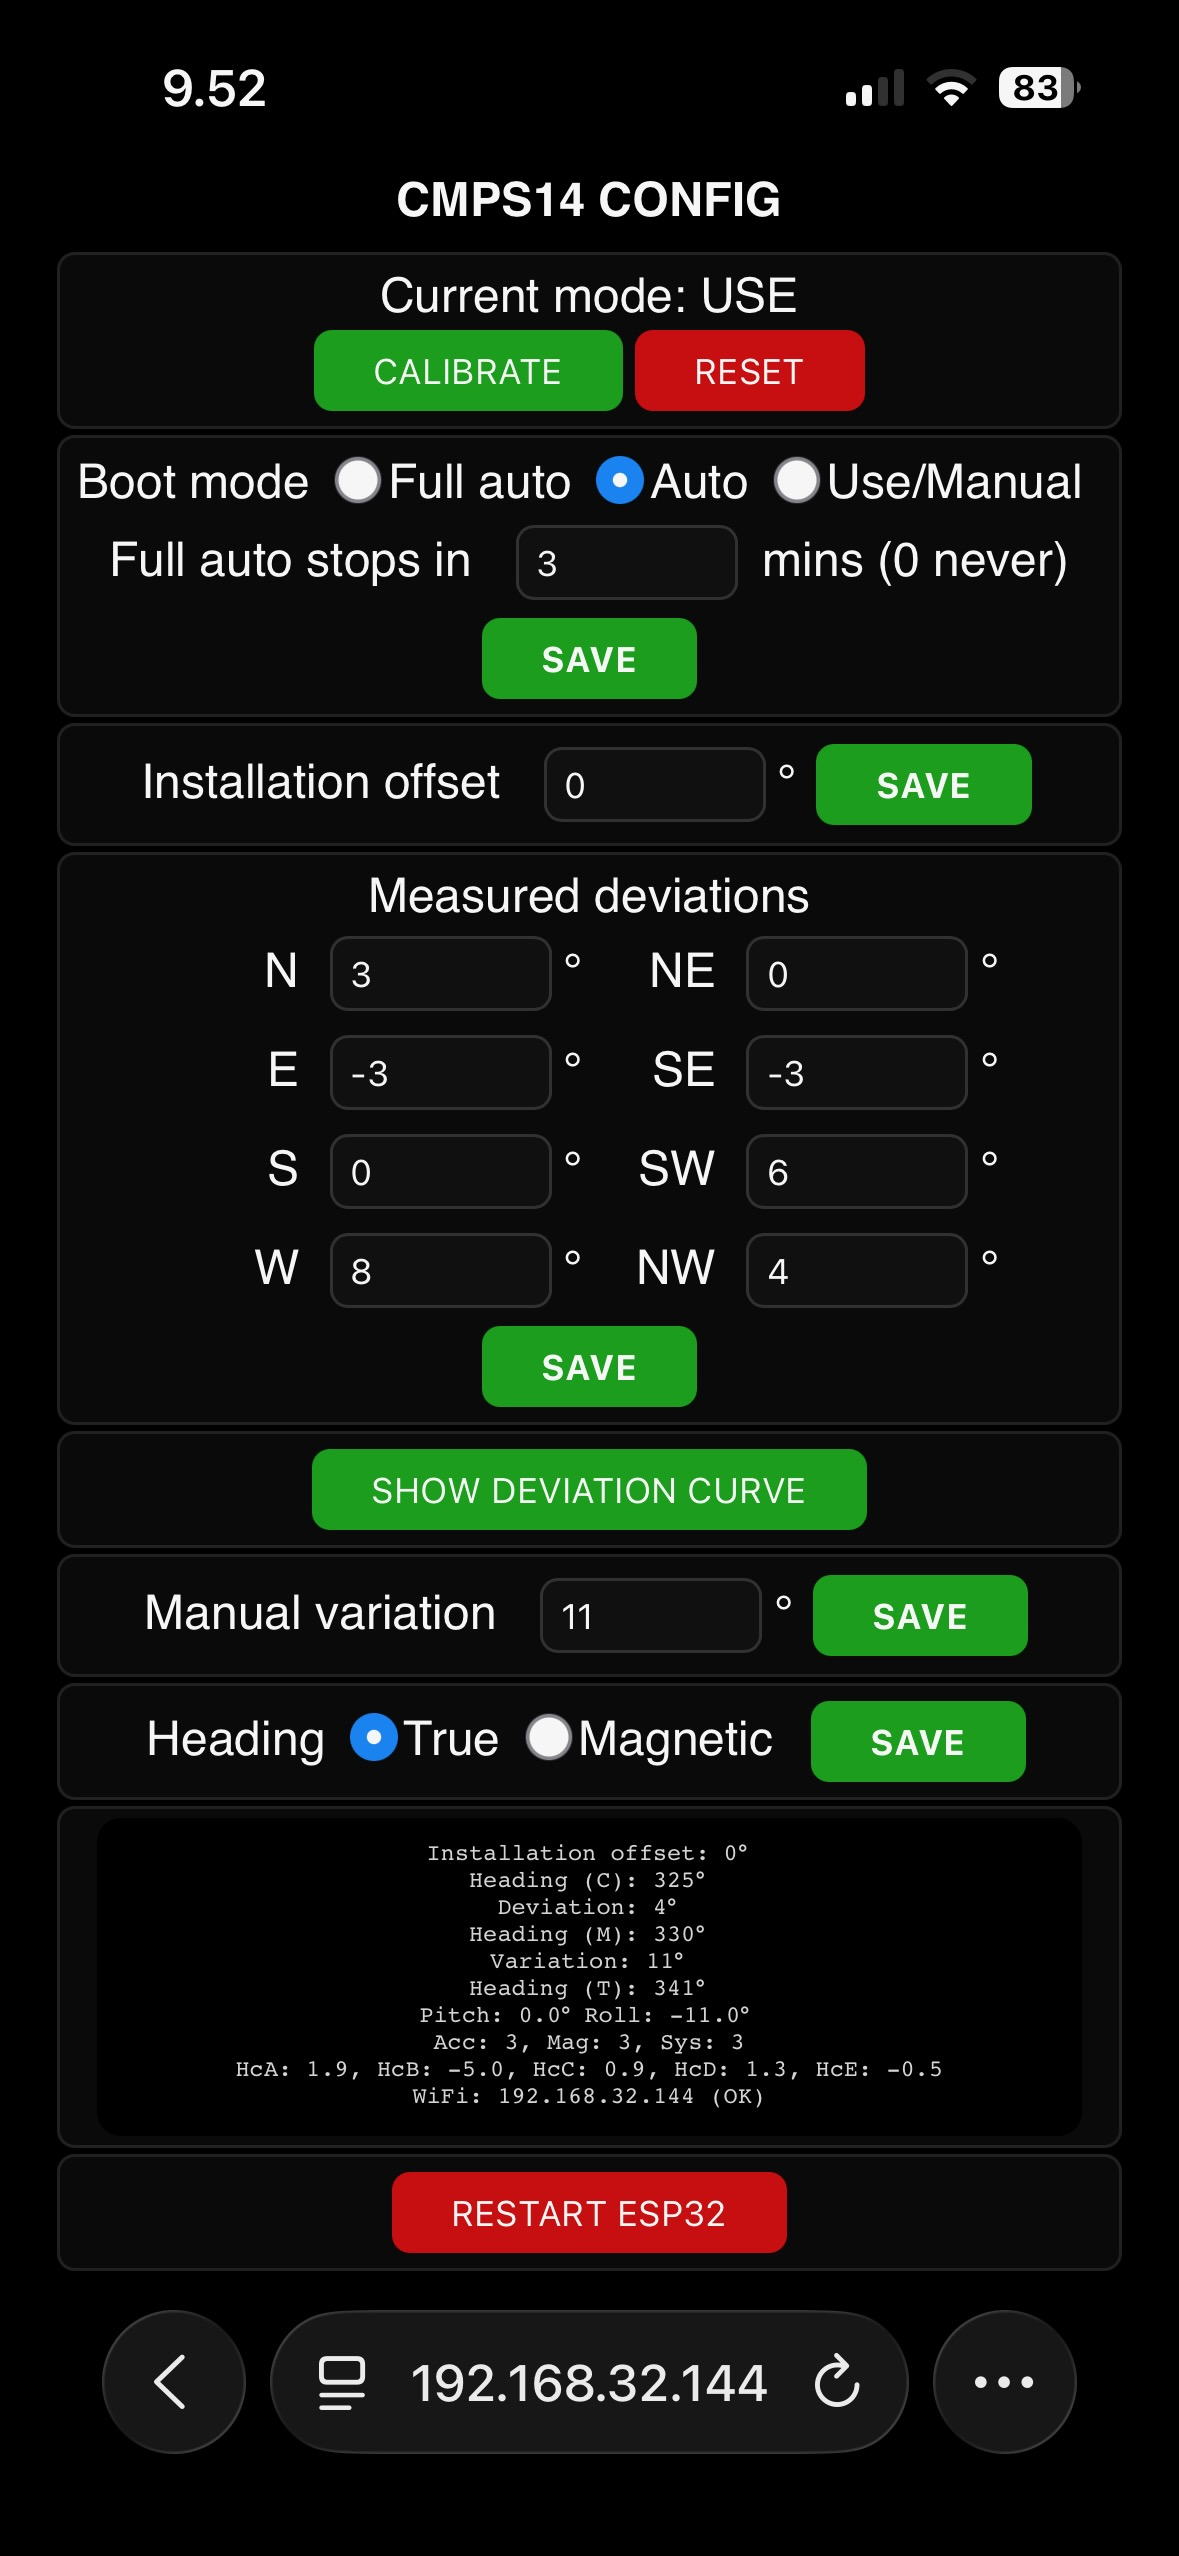
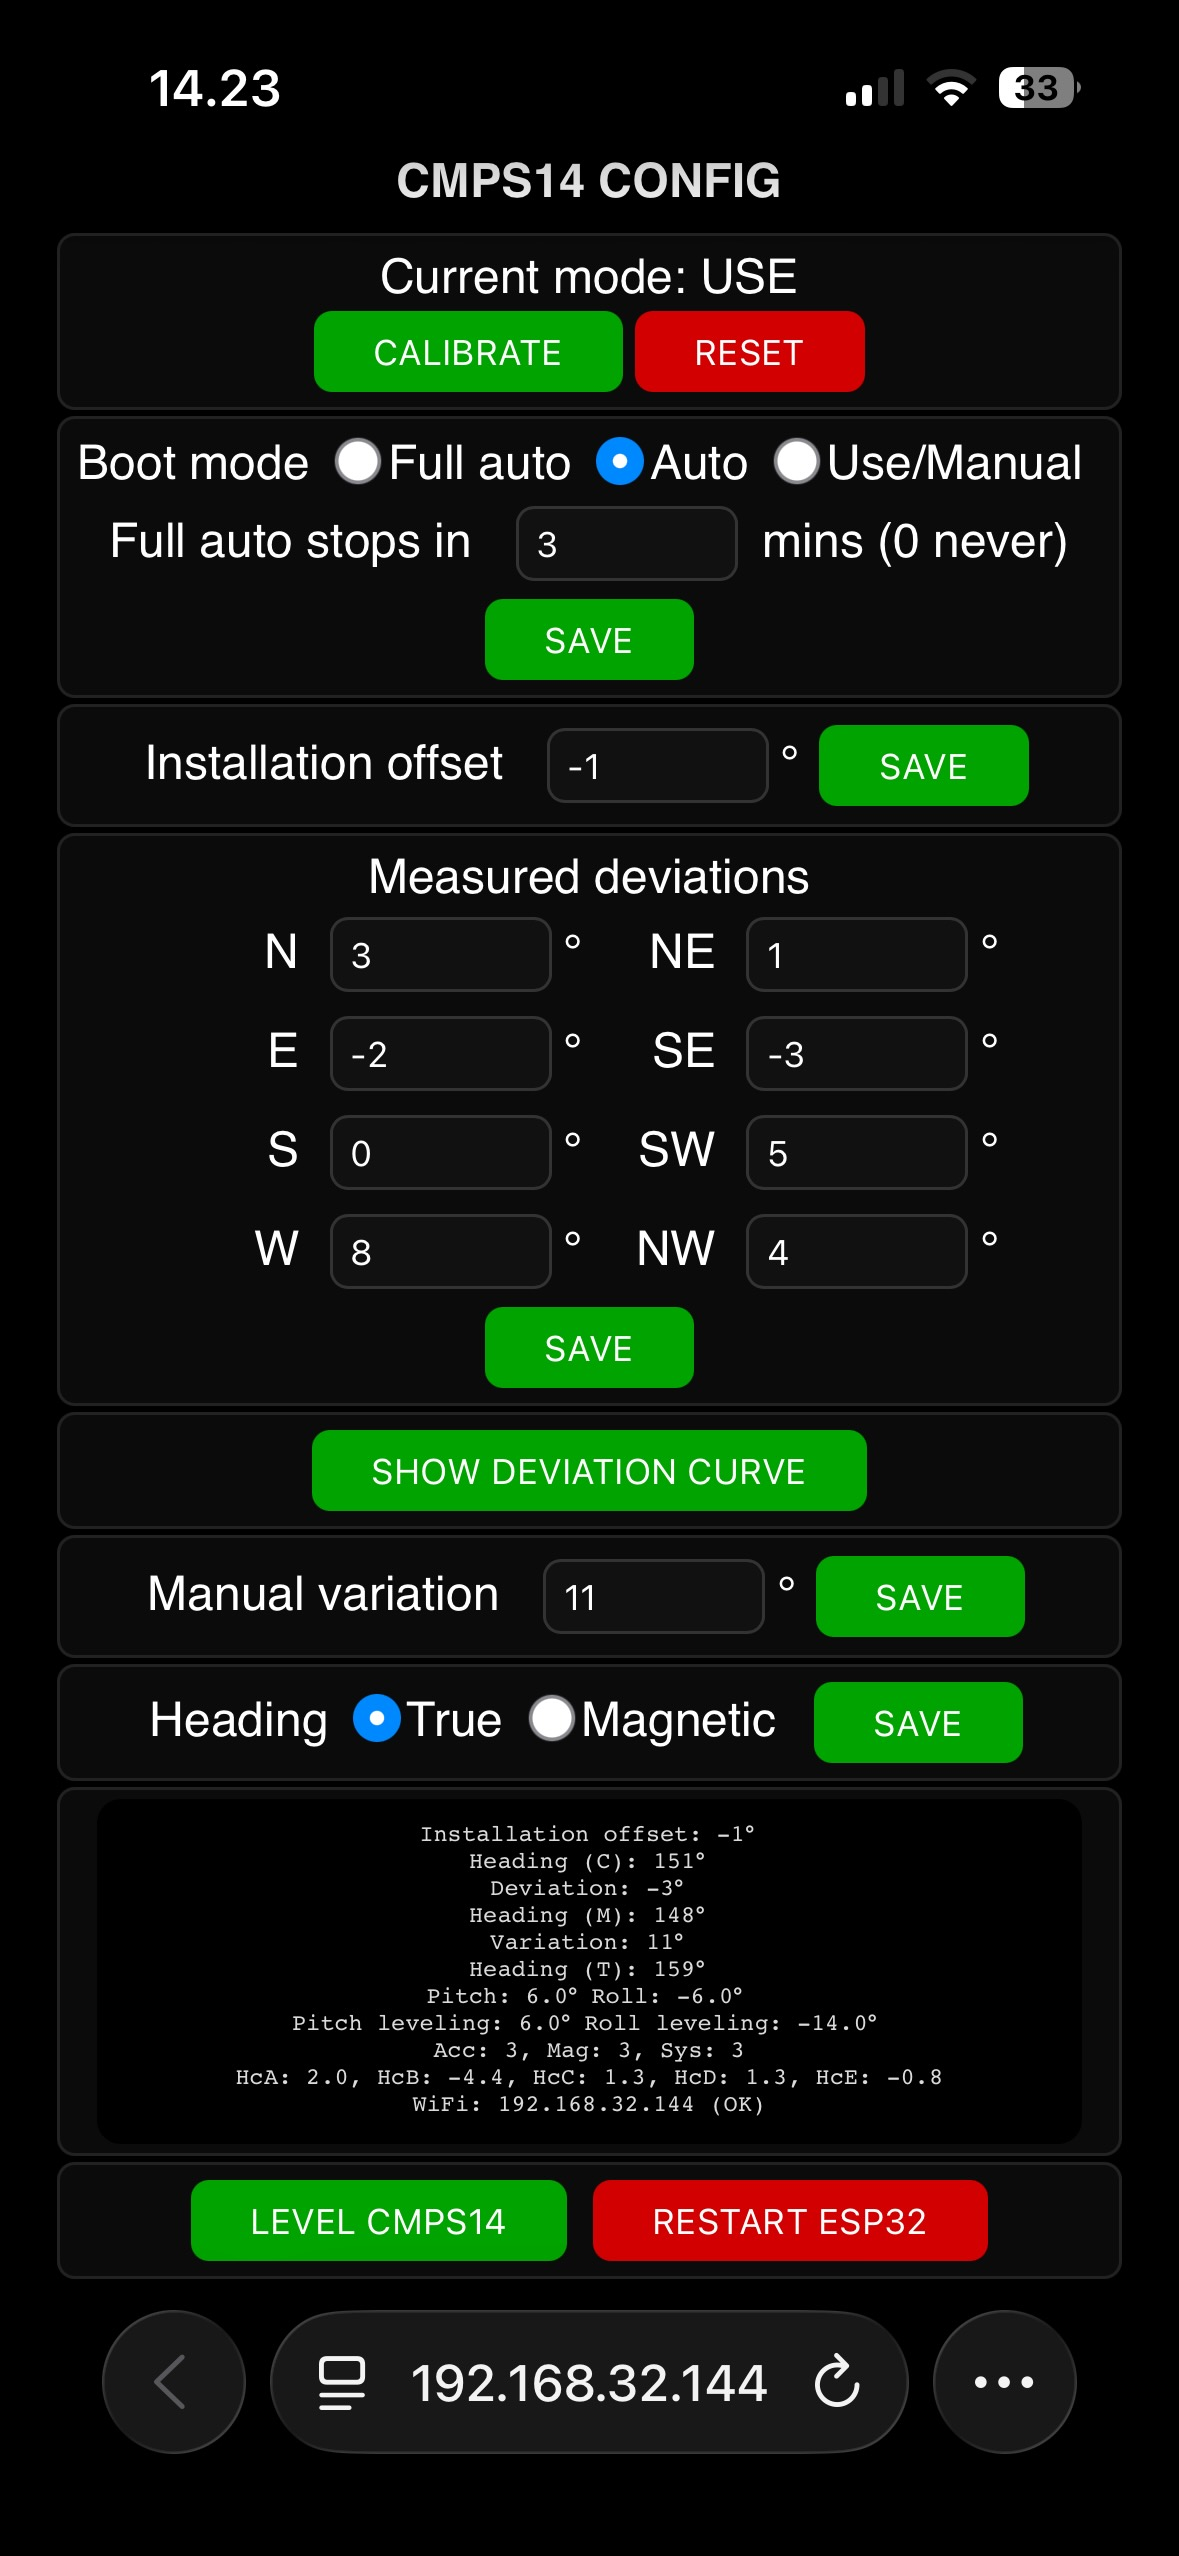
Fine tuned leveling implementation of pitch and roll.

diff --git a/WebUIManager.cpp b/WebUIManager.cpp
@@ -108,6 +108,9 @@ void WebUIManager::handleReset(){
 // Web UI handler for LEVEL CMPS14 button
 void WebUIManager::handleLevel(){
   compass.level();
+  char line2[17];
+  snprintf(line2, sizeof(line2), "P:%5.1f R:%5.1f", compass.getPitchLevel(), compass.getRollLevel());
+  display.showInfoMessage("LEVEL CMPS14", line2, true);
   this->handleRoot(); 
 }
 
@@ -502,7 +505,7 @@ void WebUIManager::handleRoot() {
             'Variation: '+fmt0(j.variation)+'\u00B0',
             'Heading (T): '+fmt0(j.heading_true_deg)+'\u00B0',
             'Pitch: '+fmt1(j.pitch_deg)+'\u00B0'+' Roll: '+fmt1(j.roll_deg)+'\u00B0',
-            'PLevel: '+fmt1(j.pitch_level)+'\u00B0'+' RLevel: '+fmt1(j.roll_level)+'\u00B0',
+            'Pitch leveling: '+fmt1(j.pitch_level)+'\u00B0'+' Roll leveling: '+fmt1(j.roll_level)+'\u00B0',
             'Acc: '+j.acc+', Mag: '+j.mag+', Sys: '+j.sys,
             'HcA: '+fmt1(j.hca)+', HcB: '+fmt1(j.hcb)+', HcC: '+fmt1(j.hcc)+', HcD: '+fmt1(j.hcd)+', HcE: '+fmt1(j.hce),
             'WiFi: '+j.wifi+' ('+j.rssi+')'

diff --git a/CMPS14Processor.cpp b/CMPS14Processor.cpp
@@ -13,9 +13,9 @@ bool CMPS14Processor::begin(TwoWire &wirePort) {
 
 // Level pitch and roll
 void CMPS14Processor::level() {
-    if (validf(pitch_deg) && validf(roll_deg)) {
-        pitch_level = -pitch_deg;
-        roll_level = -roll_deg;
+    if (validf(pitch_level_raw) && validf(roll_level_raw)) {
+        pitch_level = -pitch_level_raw;
+        roll_level = -roll_level_raw;
     }
 }
 
@@ -50,6 +50,9 @@ bool CMPS14Processor::update() {
     heading_true_deg = heading_deg + this->getVariation();
     if (heading_true_deg >= 360.0f) heading_true_deg -= 360.0f;
     if (heading_true_deg < 0.0f) heading_true_deg += 360.0f;
+
+    pitch_level_raw = pitch_raw;
+    roll_level_raw = roll_raw;
 
     pitch_deg = pitch_raw + pitch_level;
     roll_deg  = roll_raw + roll_level;

diff --git a/CMPS14Processor.h b/CMPS14Processor.h
@@ -82,6 +82,8 @@ private:
     float magvar_live_deg = 0.0f;               // Variation from SignalK navigation.magneticVariation path
     float pitch_level = 0.0f;                   // Leveling of pitch
     float roll_level = 0.0f;                    // Leveling of roll
+    float pitch_level_raw = NAN;                // Leveling of pitch
+    float roll_level_raw = NAN;                // Leveling of roll
     bool use_manual_magvar = true;              // Use magvar_manual_deg if true
     bool cal_profile_stored = false;            // Calibration profile saved if true
     bool send_hdg_true = true;                  // Send also true heading
